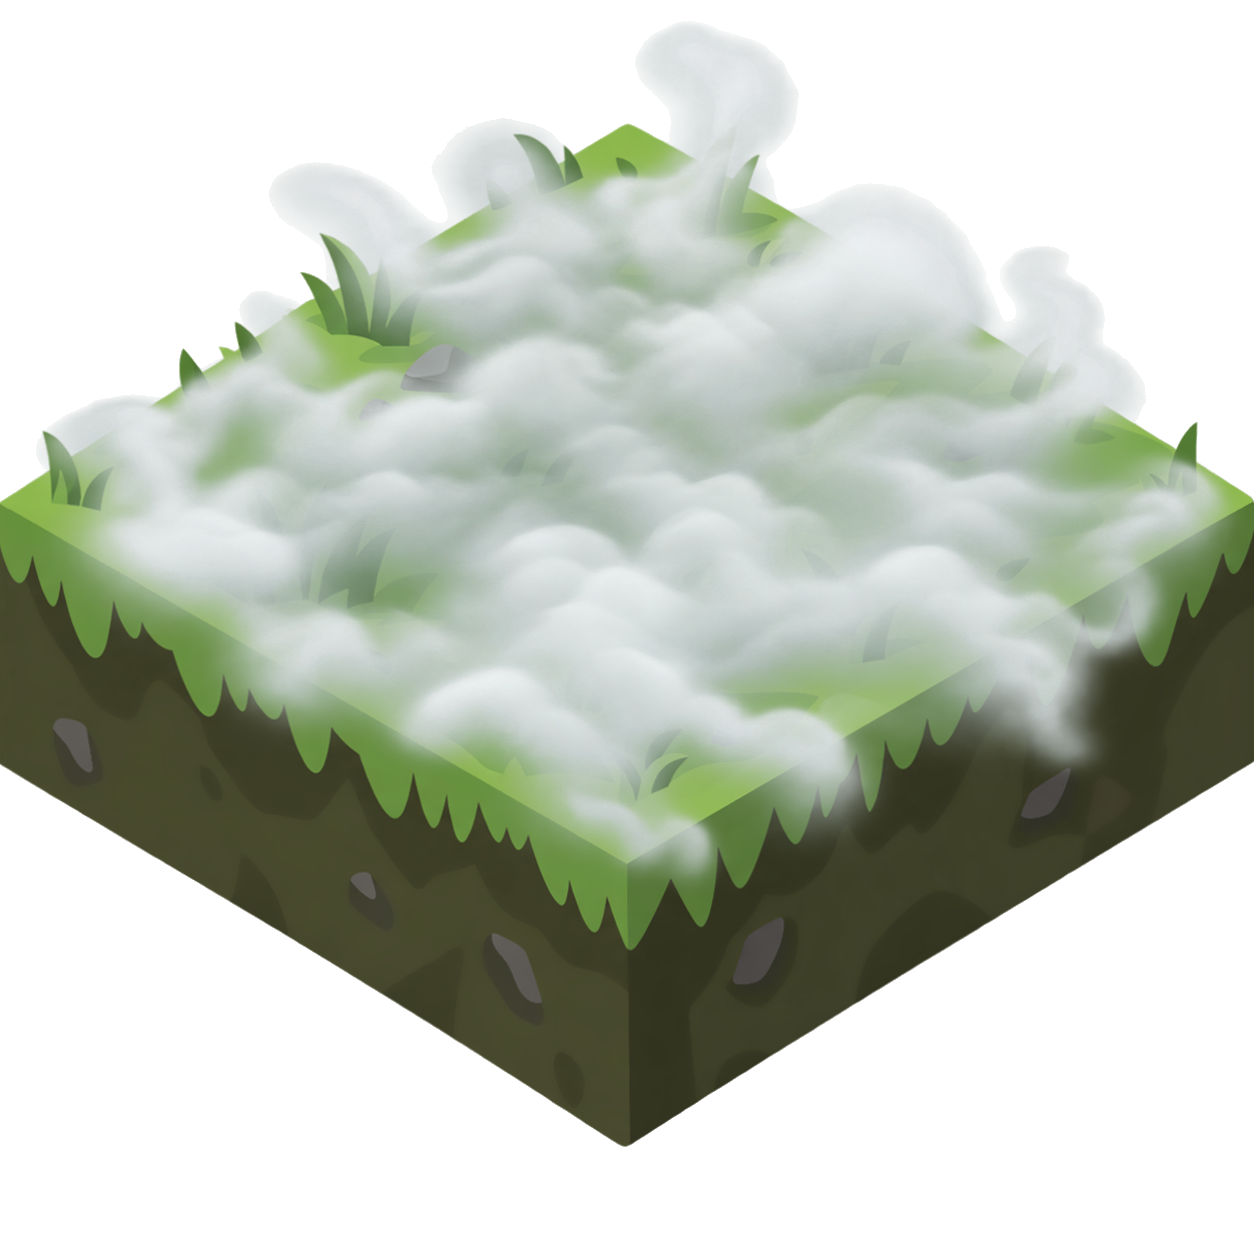
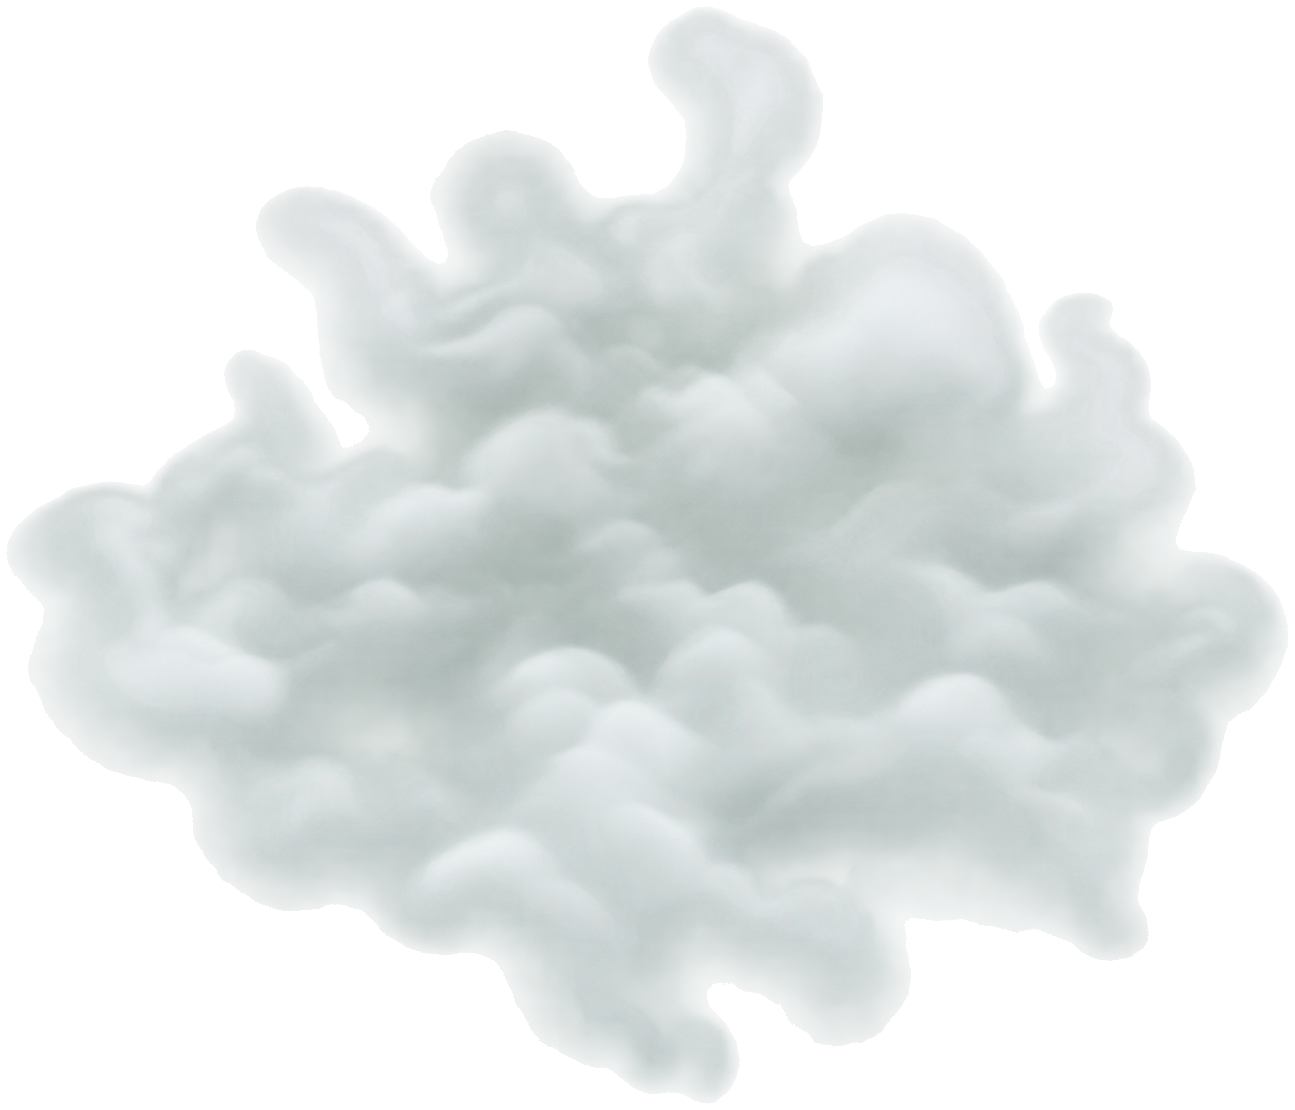
Actualizacion 20/09/2026  6:45:07,04

diff --git a/js/mapgen.js b/js/mapgen.js
@@ -26,8 +26,22 @@ const TILE_TYPES = {
 // moverse, ver Fog.revealForUnit). Así este archivo sigue sin saber nada de
 // "qué está revelado", solo pinta la pieza visual que la otra mecánica
 // necesita — mismo patrón que unit__hpbar en Units.spawnUnit (units.js).
+//
+// niebla_01.png es SOLO la nube (sin ninguna loseta dibujada dentro, a
+// diferencia de una versión anterior) — precisamente para poder centrarla
+// con las MISMAS coordenadas exactas que usa cualquier otra cosa sobre el
+// tablero (getTileCenter, igual que unidades/marcadores) en vez de intentar
+// adivinar dónde "encajaba" un dibujo de loseta ya incluido en la imagen
+// (eso fue lo que causaba el desalineado que Jesús reportó). Por eso NO
+// vive dentro de .tile (que se posiciona por su ESQUINA, getTileTopLeft) —
+// se pinta como elemento propio, hermano de .tile, anclado por su CENTRO
+// justo en getTileCenter(row,col) con transform: translate(-50%,-50%) —
+// mismo patrón que un marcador (Units.addMarker) o el ancla de pies de una
+// unidad, solo que centrada en vez de "de pie".
 const FOG_SRC = "assets/losetas/niebla_01.png";
-const FOG_OVERHANG = 1.55; // veces TILE_WIDTH — cuánto sobresale la nube de su loseta.
+const FOG_NATIVE_WIDTH = 1295;
+const FOG_NATIVE_HEIGHT = 1110;
+const FOG_OVERHANG = 1.7; // veces TILE_WIDTH — cuánto sobresale la nube de su loseta.
 
 // Dimensiones nativas del archivo de imagen hierba_01.png (no cambian).
 const TILE_NATIVE_WIDTH = 250;
@@ -126,26 +140,41 @@ function renderMap(map, container) {
     // sin depender del orden en el que se insertaron en el DOM.
     el.style.zIndex = String(t.row + t.col);
 
+    fragment.appendChild(el);
+
     // Capa de niebla (ver comentario de FOG_SRC arriba) — visible por
     // defecto en TODAS las losetas; js/fog.js la oculta loseta a loseta
-    // según se va revelando el mapa. z-index enorme y fijo (no depende de
-    // row/col como el resto) a propósito: tiene que quedar SIEMPRE por
-    // encima de cualquier unidad/gnomo que pueda estar de pie sobre esa
-    // misma loseta sin haberse revelado todavía — si dependiera de
-    // (row+col) como las propias losetas, una unidad con z-index más alto
-    // (más cerca de la cámara) se vería POR ENCIMA de la niebla que debería
-    // ocultarla.
+    // según se va revelando el mapa. Elemento HERMANO de .tile (no hijo:
+    // ver el comentario de FOG_SRC de por qué se centra con sus propias
+    // coordenadas en vez de heredar la caja de la loseta), con
+    // data-row/data-col propios para que Fog.init la encuentre igual que
+    // encontraría la de .tile. z-index enorme y fijo (no depende de row/col
+    // como el resto) a propósito: tiene que quedar SIEMPRE por encima de
+    // cualquier unidad/gnomo que pueda estar de pie sobre esa misma loseta
+    // sin haberse revelado todavía — si dependiera de (row+col) como las
+    // propias losetas, una unidad con z-index más alto (más cerca de la
+    // cámara) se vería POR ENCIMA de la niebla que debería ocultarla.
     const fogImg = document.createElement("img");
     fogImg.className = "tile__fog";
     fogImg.src = FOG_SRC;
     fogImg.draggable = false;
     fogImg.alt = "";
+    fogImg.dataset.row = String(t.row);
+    fogImg.dataset.col = String(t.col);
     const fogWidth = Math.round(TILE_WIDTH * FOG_OVERHANG);
     fogImg.width = fogWidth;
-    fogImg.height = fogWidth; // niebla_01.png es cuadrada — ver FOG_OVERHANG
-    el.appendChild(fogImg);
-
-    fragment.appendChild(el);
+    fogImg.height = Math.round((fogWidth * FOG_NATIVE_HEIGHT) / FOG_NATIVE_WIDTH);
+    const center = getTileCenter(t.row, t.col, map.size);
+    fogImg.style.left = `${center.x}px`;
+    fogImg.style.top = `${center.y}px`;
+    // Fase de la animación de reposo (ver @keyframes fog-idle-drift en
+    // style.css) desfasada al azar por loseta — nivel Triple A / feedback
+    // (regla de oro del proyecto): un campo entero de nubes respirando
+    // exactamente a la vez se lee como un efecto de pantalla, no como niebla
+    // de verdad. Negativo para que arranque ya a mitad de ciclo en vez de
+    // hacer esperar a la primera loseta hasta que empiece su turno.
+    fogImg.style.animationDelay = `-${(Math.random() * 9).toFixed(2)}s`;
+    fragment.appendChild(fogImg);
   });
 
   container.appendChild(fragment);

diff --git a/css/style.css b/css/style.css
@@ -283,29 +283,62 @@ h2 {
 }
 
 /* Niebla de guerra (js/mapgen.js genera esta capa siempre, js/fog.js decide
-   cuándo ocultarla) — más ancha que su propia loseta (ver FOG_OVERHANG en
-   mapgen.js) y anclada por su borde inferior, igual de idea que el ancla de
-   pies de .unit (translate/left/bottom), para que la nube "crezca" desde el
-   suelo de la loseta hacia arriba y los lados en vez de desde su propio
-   centro. pointer-events: none — nunca debe robar clics: las losetas de
-   niebla ya quedan excluidas como destino de movimiento en js/movement.js,
-   así que no hace falta que intercepte nada aquí. */
+   cuándo ocultarla) — centrada EXACTAMENTE en el centro de su loseta
+   (getTileCenter, ver comentario de FOG_SRC en mapgen.js: niebla_01.png es
+   solo la nube, sin ninguna loseta dibujada dentro, así que no hay que
+   adivinar ningún ancla) y más ancha que ella (FOG_OVERHANG en mapgen.js)
+   para que el borde entre lo revelado y lo que no se ha explorado todavía
+   se lea como una nube continua en vez de un corte recto tile a tile.
+   pointer-events: none — nunca debe robar clics: las losetas de niebla ya
+   quedan excluidas como destino de movimiento en js/movement.js, así que no
+   hace falta que intercepte nada aquí.
+
+   Nivel Triple A / feedback (regla de oro del proyecto) — NO es una nube
+   estática: respira/deriva muy despacio incluso parada (fog-idle-drift,
+   desfasada al azar por loseta desde mapgen.js para que un campo entero de
+   niebla no "lata" a la vez como si fuera un efecto de pantalla en vez de
+   niebla de verdad), y al revelarse no es un simple fundido de opacidad
+   sino que se DISIPA de verdad (fog-dissipate más abajo): crece, se
+   difumina y se desvanece, como si el viento se la llevara. */
 .tile__fog {
   position: absolute;
-  left: 50%;
-  bottom: -14px;
-  transform: translateX(-50%);
+  left: 0;
+  top: 0;
+  transform: translate(-50%, -50%);
   pointer-events: none;
-  opacity: 1;
-  transition: opacity 0.5s ease;
+  opacity: 0.96;
+  /* Fijo y enorme a propósito (no depende de row/col como .tile) — tiene
+     que quedar SIEMPRE por encima de CUALQUIER loseta o unidad, incluidas
+     las que están "más cerca de cámara" (z-index más alto, ver mapgen.js);
+     sin esto, cualquier loseta con z-index > 0 pintaría por encima de la
+     niebla en vez de al revés (regresión ya vista una vez: sin z-index
+     propio, un elemento posicionado cuenta como 0 y las losetas con
+     row+col > 0 lo tapaban casi todo). */
   z-index: 100000;
+  will-change: transform, opacity, filter;
+  animation: fog-idle-drift 8s ease-in-out infinite;
 }
 
-/* Al revelarse (Fog.revealForUnit) se desvanece en vez de desaparecer de
-   golpe — nivel Triple A / feedback (regla de oro del proyecto): explorar
-   debe sentirse como un descubrimiento, no como un simple "on/off". */
+@keyframes fog-idle-drift {
+  0%, 100% { transform: translate(-50%, -50%) scale(1) rotate(0deg); }
+  50% { transform: translate(-50%, -47%) scale(1.035) rotate(0.6deg); }
+}
+
+/* Al revelarse (Fog.revealForUnit) sustituye por completo la animación de
+   reposo (misma propiedad "animation", gana por ir después en la hoja de
+   estilos) — nunca las dos compitiendo por transform a la vez, mismo patrón
+   que unit--moving/unit__sprite--hop en units.js/style.css. "forwards"
+   deja el fotograma final (opacity:0, ya disipada) en vez de volver de
+   golpe al primero al terminar; js/fog.js la esconde del todo
+   (display:none) cuando acaba, vía animationend. */
 .tile__fog--revealed {
-  opacity: 0;
+  animation: fog-dissipate 1.1s cubic-bezier(0.34, 0.7, 0.4, 1) forwards;
+}
+
+@keyframes fog-dissipate {
+  0% { transform: translate(-50%, -50%) scale(1); opacity: 0.96; filter: blur(0px); }
+  35% { transform: translate(-50%, -58%) scale(1.16); opacity: 0.7; filter: blur(2px); }
+  100% { transform: translate(-50%, -72%) scale(1.55); opacity: 0; filter: blur(7px); }
 }
 
 /* ---------- Unidades ---------- */

diff --git a/js/fog.js b/js/fog.js
@@ -38,9 +38,11 @@ const Fog = {
     this.size = size;
     this.revealedGrid = Array.from({ length: size }, () => new Array(size).fill(false));
     this._fogEls = new Map();
-    container.querySelectorAll(".tile").forEach((tileEl) => {
-      const fogEl = tileEl.querySelector(".tile__fog");
-      if (fogEl) this._fogEls.set(`${tileEl.dataset.row},${tileEl.dataset.col}`, fogEl);
+    // .tile__fog ya no vive DENTRO de su .tile (ver comentario de FOG_SRC en
+    // mapgen.js) — es un elemento hermano con su propio data-row/data-col,
+    // así que se busca directamente en vez de a través de la loseta.
+    container.querySelectorAll(".tile__fog").forEach((fogEl) => {
+      this._fogEls.set(`${fogEl.dataset.row},${fogEl.dataset.col}`, fogEl);
     });
   },
 
@@ -71,10 +73,24 @@ const Fog = {
     if (this.revealedGrid[row][col]) return;
     this.revealedGrid[row][col] = true;
     const fogEl = this._fogEls.get(`${row},${col}`);
-    // Se desvanece (transition en .tile__fog--revealed, ver style.css) en
-    // vez de desaparecer de golpe — nivel Triple A / feedback (regla de oro
-    // del proyecto): explorar debe sentirse como un descubrimiento.
-    if (fogEl) fogEl.classList.add("tile__fog--revealed");
+    if (!fogEl) return;
+    // Se disipa con su propia animación (@keyframes fog-dissipate, ver
+    // style.css: crece, se difumina y se desvanece, no un simple fundido de
+    // opacidad) en vez de desaparecer de golpe — nivel Triple A / feedback
+    // (regla de oro del proyecto): explorar debe sentirse como un
+    // descubrimiento, no como un interruptor on/off.
+    fogEl.classList.add("tile__fog--revealed");
+    // Al terminar la animación de disipado se saca del flujo de pintado por
+    // completo (display:none) — ya es invisible (opacity:0 al final del
+    // keyframe) pero sin esto seguiría "animando en reposo" para siempre sin
+    // coste visible; con esto no vuelve a costar nada.
+    fogEl.addEventListener(
+      "animationend",
+      () => {
+        fogEl.style.display = "none";
+      },
+      { once: true }
+    );
   },
 
   // Revelado FIJO al empezar la partida — ver FOG_INITIAL_RADIUS arriba.

diff --git a/js/combat.js b/js/combat.js
@@ -60,6 +60,14 @@ const Combat = {
     const targets = [];
     Units.list.forEach((other) => {
       if (other.team === unit.team) return;
+      // Niebla de guerra (js/fog.js) — pedido explícito: "el jugador no
+      // puede ver lo que hay tras ella... puede que haya un enemigo... pero
+      // hasta que no se despeje no se sabrá". Un rival de pie sobre una
+      // loseta todavía sin revelar no se puede atacar aunque caiga dentro
+      // del alcance — ya está oculto visualmente por la propia niebla
+      // (z-index por encima de todo, ver mapgen.js), esto evita además que
+      // se pueda "atacar a ciegas" algo que no se ve.
+      if (typeof Fog !== "undefined" && Fog.isFogged(other.row, other.col)) return;
       const approach = this.findApproachTile(unit, other);
       if (approach) targets.push({ target: other, approach });
     });

diff --git a/js/gnome.js b/js/gnome.js
@@ -306,6 +306,13 @@ function createGnomeInstance() {
     },
 
     _showCatchMarkerFor(unit) {
+      // Niebla de guerra (js/fog.js) — pedido explícito: "puede que haya un
+      // enemigo o gnomos, pero hasta que no se despeje no se sabrá". Un
+      // gnomo suelto sobre una loseta todavía sin revelar no se puede coger
+      // aunque esté a distancia — ya queda oculto visualmente por la propia
+      // niebla; esto evita además "cogerlo a ciegas" haciendo clic donde en
+      // teoría no se ve nada.
+      if (typeof Fog !== "undefined" && Fog.isFogged(this.row, this.col)) return;
       const approach = this.findApproachTile(unit);
       if (!approach) return;
       Units.addMarker({

diff --git a/js/units.js b/js/units.js
@@ -107,7 +107,7 @@ const UNIT_TYPES = {
     name: "LanzaGnomos",
     raceId: "colinas_rockntroll",
     spriteUrl: "assets/equipos/ColinasRockNTroll/unidad_01.png",
-    aguante: 1,
+    aguante: 2,
     movimiento: 3,
     fuerza: 1,
     agilidad: 5,
